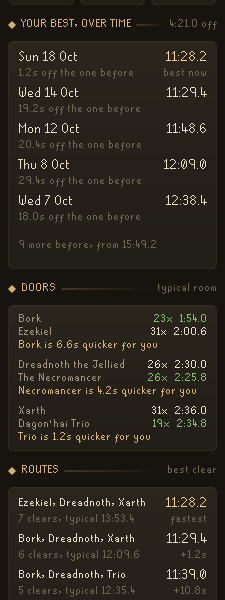
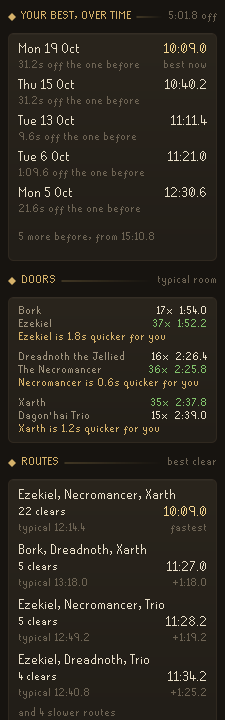
Give each route a line of its own so three boss names are not cut off
At sidebar width Ezekiel, Necromancer, Xarth was clipped beside its best time.
The route now heads its row, with the clears and the time beneath.

diff --git a/src/main/java/com/codex/archive/ui/ArchivePanel.java b/src/main/java/com/codex/archive/ui/ArchivePanel.java
@@ -548,12 +548,17 @@ public class ArchivePanel extends PluginPanel
 		if (routes.size() >= 2)
 		{
 			stack.add(new SectionHeader("Routes", "best clear"));
-			Card card = new Card(new GridLayout(0, 1, 0, 4));
+			// Stacked, not a grid: a grid would stretch the one-line trailer to a three-line route's height.
+			Card card = new Card(new StackPanel.StackLayout(6));
 			for (int i = 0; i < Math.min(ROUTES, routes.size()); i++)
 			{
 				Insights.RouteStat r = routes.get(i);
-				JComponent row = twoLine(r.name(), Theme.small(), r.clears + (r.clears == 1 ? " clear" : " clears") + (r.clears >= 3 ? ", typical " + Format.ticks(r.typical) : ""),
-					Format.ticks(r.best), i == 0 ? "fastest" : "+" + Format.span(r.best - routes.get(0).best), i == 0 ? Theme.GOLD_BRIGHT : Theme.TEXT);
+				// The route takes a line of its own: three boss names beside a time clip at sidebar width.
+				JPanel row = new JPanel(new BorderLayout(0, 1));
+				row.setOpaque(false);
+				row.add(Ui.label(r.name(), Theme.body(), Theme.TEXT), BorderLayout.NORTH);
+				row.add(twoLine(r.clears + (r.clears == 1 ? " clear" : " clears"), Theme.small(), r.clears >= 3 ? "typical " + Format.ticks(r.typical) : "",
+					Format.ticks(r.best), i == 0 ? "fastest" : "+" + Format.span(r.best - routes.get(0).best), i == 0 ? Theme.GOLD_BRIGHT : Theme.TEXT), BorderLayout.CENTER);
 				row.setToolTipText("<html>" + r.name() + "<br>Best clear " + Format.ticks(r.best) + (r.clears >= 2 ? ", middle of " + r.clears + " clears " + Format.ticks(r.typical) : "") + "</html>");
 				card.add(row);
 			}
